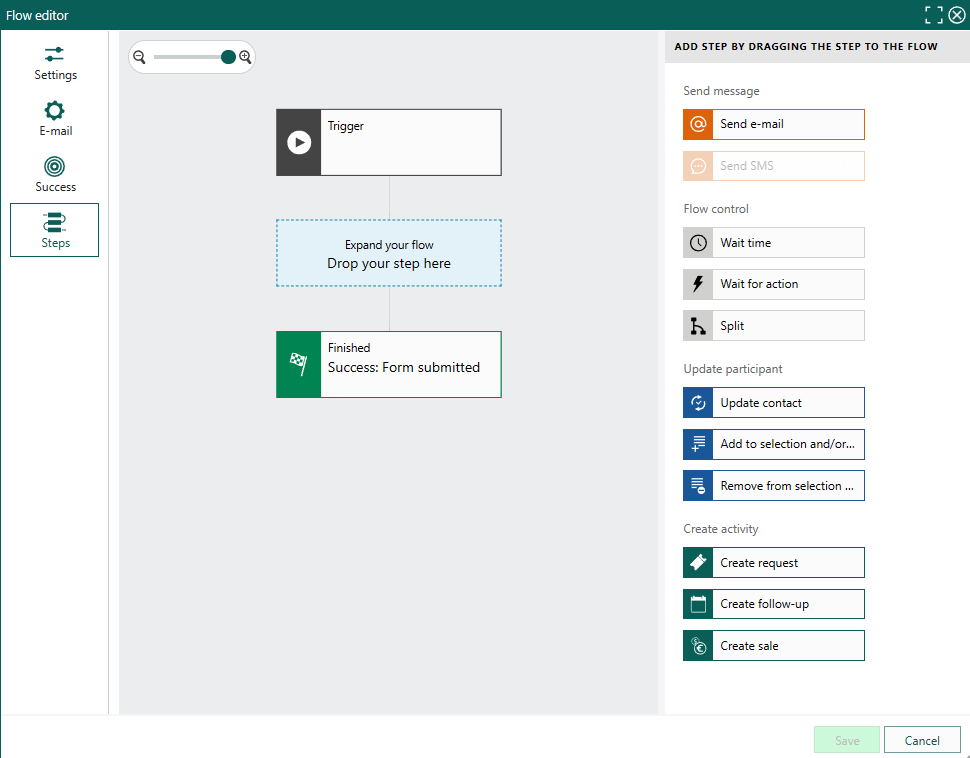
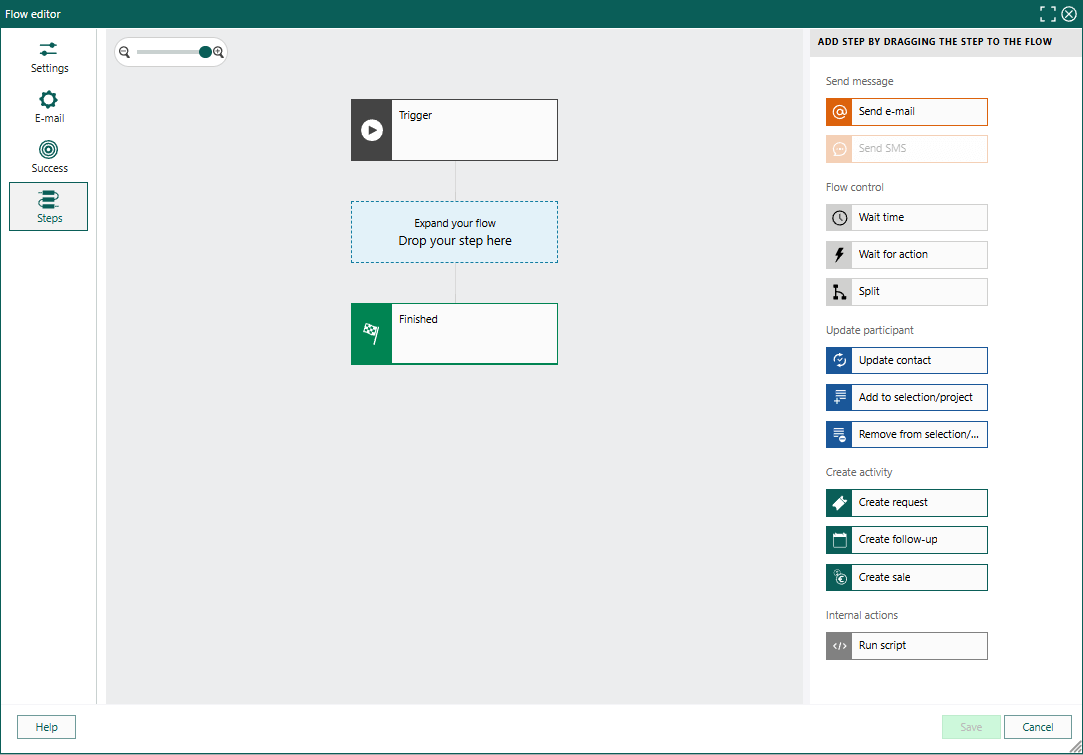
#1213 add run script step

diff --git a/docs/de/marketing/flows/learn/define-flow-actions.md b/docs/de/marketing/flows/learn/define-flow-actions.md
@@ -2,10 +2,10 @@
 uid: help-de-flow-actions
 title: Flow-Aktionen definieren
 description: Flow-Aktionen definieren
-keywords: Marketing, Flow, Flow-Aktion, Teilnehmer aktualisieren, Nachricht senden
+keywords: Marketing, Flow, Flow-Aktion, Teilnehmer aktualisieren, Nachricht senden, Skript ausführen
 author: Bergfrid Dias
-so.date: 05.31.2024
-so.version: 10.3.5
+so.date: 06.11.2024
+so.version: 10.3.7
 so.topic: howto
 language: de
 so.audience: person
@@ -20,6 +20,7 @@ so.pilot: yes
 * [Nachricht senden](#send)
 * [Teilnehmer aktualisieren](#update)
 * [Aktivität erstellen](#create)
+* [Interne Aktionen](#internal)
 
 > [!NOTE]
 > Wenn Sie Flow-Aktionen hinzufügen oder aktualisieren, beachten Sie, dass auch Formulare und verfolgte Links Aktionen haben. Sie sollten sicherstellen, dass keine doppelten oder widersprüchlichen Aktionen vorhanden sind. Wir empfehlen, alle Aktionen an einem Ort einzubeziehen, entweder im Formular oder im Flow.
@@ -125,7 +126,7 @@ Beispiel: Richten Sie eine kostenlose Beratung zum ersten verfügbaren Zeitpunkt
 1. Zuweisen an: Wählen Sie aus, wer den Teilnehmer nachverfolgen soll: "Unser Kontakt" oder "Unser Service-Kontakt", oder ein spezifisch benannter Mitarbeiter.
 1. Geben Sie optional weitere Informationen ein. Weitere Details finden Sie in der [Liste der Schritt-Einstellungen][1] und [wie man eine Folgeaufgabe erstellt][12].
 
-## Anfrage erstellen
+### Anfrage erstellen
 
 1. Ziehen Sie das **Anfrage erstellen**-Feld aus dem Schrittmenü und lassen Sie es in einem verfügbaren Slot im Diagrammm fallen.
 1. Geben Sie einen beschreibenden **Titel** ein.
@@ -139,7 +140,7 @@ Beispiel: Richten Sie eine kostenlose Beratung zum ersten verfügbaren Zeitpunkt
 
 Weitere Details finden Sie in der [Liste der Schritt-Einstellungen][1] und [wie man eine Anfrage erstellt][13].
 
-## Verkauf erstellen
+### Verkauf erstellen
 
 Wenn der Person diesen Schritt erreicht, ist der Person reif und hat Anzeichen für eine Verkaufschance gezeigt.
 
@@ -153,6 +154,18 @@ Wenn der Person diesen Schritt erreicht, ist der Person reif und hat Anzeichen f
     > Fügen Sie auch eine Folgeaufgabe hinzu, um den Eigentümer des Verkaufs über diese neue Gelegenheit zu informieren.
 
 Weitere Details finden Sie in der [Liste der Schritt-Einstellungen][1] und [wie man einen Verkauf erstellt][18].
+
+## <a id="internal" />Interne Aktionen
+
+### Skript ausführen
+
+Führen Sie benutzerdefinierte Geschäftslogik aus, indem Sie ein CRMScript als Teil des Flows auslösen.
+
+1. Ziehen Sie das **Skript ausführen**-Feld aus dem Schrittmenü und lassen Sie es in einem verfügbaren Slot im Diagrammm fallen.
+1. Wählen Sie ein [CRMScript][20] aus der Liste.
+
+> [!NOTE]
+> Der Teilnehmer wird sofort nach dem Auslösen des Skripts zum nächsten Schritt übergehen, ohne auf das Ergebnis zu warten.
 
 ## Flow-Aktion vs. Formular-Aktion
 
@@ -189,6 +202,7 @@ Eine [Link-Aktion][7] könnte:
 [17]: ../../../request/learn/priority/index.md
 [18]: ../../../sale/learn/create.md
 [19]: ../../../custom-objects/learn/extra-field.md
+[20]: ../../../automation/crmscript/learn/create-script.md
 
 <!-- Referenced images -->
 [img1]: ../../../../media/loc/en/marketing/flow-send-email-new.png

diff --git a/docs/no/marketing/flows/learn/create.md b/docs/no/marketing/flows/learn/create.md
@@ -4,8 +4,8 @@ title: Opprette en ny flyt
 description: Hvordan opprette ny flyt og definere flytinnstillinger i SuperOffice Marketing
 keywords: flyt, markedsføringsautomatisering, ny flyt, flytinnstilling
 author: Bergfrid Dias
-so.date: 05.24.2024
-so.version: 10.3.5
+so.date: 06.11.2024
+so.version: 10.3.7
 so.topic: howto
 language: no
 so.audience: person
@@ -138,6 +138,7 @@ Ekskluderingslisten **forhindrer utvalgte personer fra å bli lagt til i flyten*
     * Flytkontroll
     * [Oppdater deltaker][4]
     * [Opprett aktivitet][5]
+    * [Interne handlinger][10]
 
 Klikk X i trinninnstillingsheaderen for å gå tilbake til trinnmenyen.
 
@@ -217,6 +218,7 @@ Etter å ha designet en flyt og lagret den, lukkes **Dialogvindu for å redigere
 [3]: define-flow-actions.md
 [4]: define-flow-actions.md#update
 [5]: define-flow-actions.md#create
+[10]: define-flow-actions.md#internal
 [6]: run-pause-end.md
 [7]: index.md#success
 [9]: step-settings.md

diff --git a/docs/en/marketing/flows/learn/create.md b/docs/en/marketing/flows/learn/create.md
@@ -4,8 +4,8 @@ title: Create a new flow
 description: How to create new flow and define flow setting in SuperOffice Marketing
 keywords: flow, marketing automation, new flow, flow setting
 author: Bergfrid Dias, Trude Lien Smedbråten
-so.date: 05.15.2024
-so.version: 10.3.5
+so.date: 06.11.2024
+so.version: 10.3.7
 so.topic: howto
 language: en
 so.audience: person
@@ -138,6 +138,7 @@ The exclusion list **prevents selected contacts from being added to the flow**. 
     * Flow control
     * [Update participant][4]
     * [Create activity][5]
+    * [Internal actions][10]
 
 Click the X in the step settings header to return to the step menu.
 
@@ -217,6 +218,7 @@ After designing a flow and saving it, the **Flow editor** closes, and the flow c
 [3]: define-flow-actions.md
 [4]: define-flow-actions.md#update
 [5]: define-flow-actions.md#create
+[10]: define-flow-actions.md#internal
 [6]: run-pause-end.md
 [7]: index.md#success
 [9]: step-settings.md

diff --git a/docs/de/marketing/flows/learn/create.md b/docs/de/marketing/flows/learn/create.md
@@ -4,8 +4,8 @@ title: Neuen Flow erstellen
 description: Neuen Flow erstellen
 keywords: Marketing, Flow
 author: Bergfrid Dias
-so.date: 05.31.2024
-so.version: 10.3.5
+so.date: 06.11.2024
+so.version: 10.3.7
 so.topic: howto
 language: de
 so.audience: person
@@ -138,6 +138,7 @@ Die Ausschlussliste **verhindert, dass ausgewählte Persone dem Flow hinzugefüg
     * Ablaufsteuerung
     * [Teilnehmer aktualisieren][4]
     * [Aktivität erstellen][5]
+    * [Interne Aktionen][10]
 
 Klicken Sie auf das X im Kopfbereich der Schritteinstellungen, um zum Schrittfeld zurückzukehren.
 
@@ -219,6 +220,7 @@ Nach dem Entwerfen eines Flows und dem Speichern schließt sich der **Flow-Edito
 [3]: define-flow-actions.md
 [4]: define-flow-actions.md#update
 [5]: define-flow-actions.md#create
+[10]: define-flow-actions.md#internal
 [6]: run-pause-end.md
 [7]: index.md#success
 [9]: step-settings.md

diff --git a/docs/en/marketing/flows/learn/index.md b/docs/en/marketing/flows/learn/index.md
@@ -4,8 +4,8 @@ title: Marketing automation - flows
 description: Introduction to SuperOffice marketing automation and flows.
 keywords: flow, marketing automation, campaign, success criteria, segment
 author: Bergfrid Dias, Trude Lien Smedbråten
-so.date: 05.15.2024
-so.version: 10.3.5
+so.date: 06.11.2024
+so.version: 10.3.7
 so.topic: concept
 language: en
 so.audience: person

diff --git a/docs/de/marketing/flows/learn/index.md b/docs/de/marketing/flows/learn/index.md
@@ -4,8 +4,8 @@ title: Marketing-Automatisierung - Flows
 description: Einführung in die Marketing-Automatisierung und Flows von SuperOffice.
 keywords: Marketing, Flow, Automatisierung, Kampagne, Segmentieren, Kundenreise
 author: Bergfrid Dias
-so.date: 05.31.2024
-so.version: 10.3.5
+so.date: 06.11.2024
+so.version: 10.3.7
 so.topic: howto
 language: de
 so.audience: person

diff --git a/docs/no/marketing/flows/learn/index.md b/docs/no/marketing/flows/learn/index.md
@@ -4,8 +4,8 @@ title: Markedsføringsautomatisering - flyter
 description: Introduksjon til markedsføringsautomatisering og flyter.
 keywords: flyt, arkedsføringsautomatisering, kampanje, suksesskriterie, segment
 author: Bergfrid Dias
-so.date: 05.24.2024
-so.version: 10.3.5
+so.date: 06.11.2024
+so.version: 10.3.7
 so.topic: concept
 language: no
 so.audience: person
